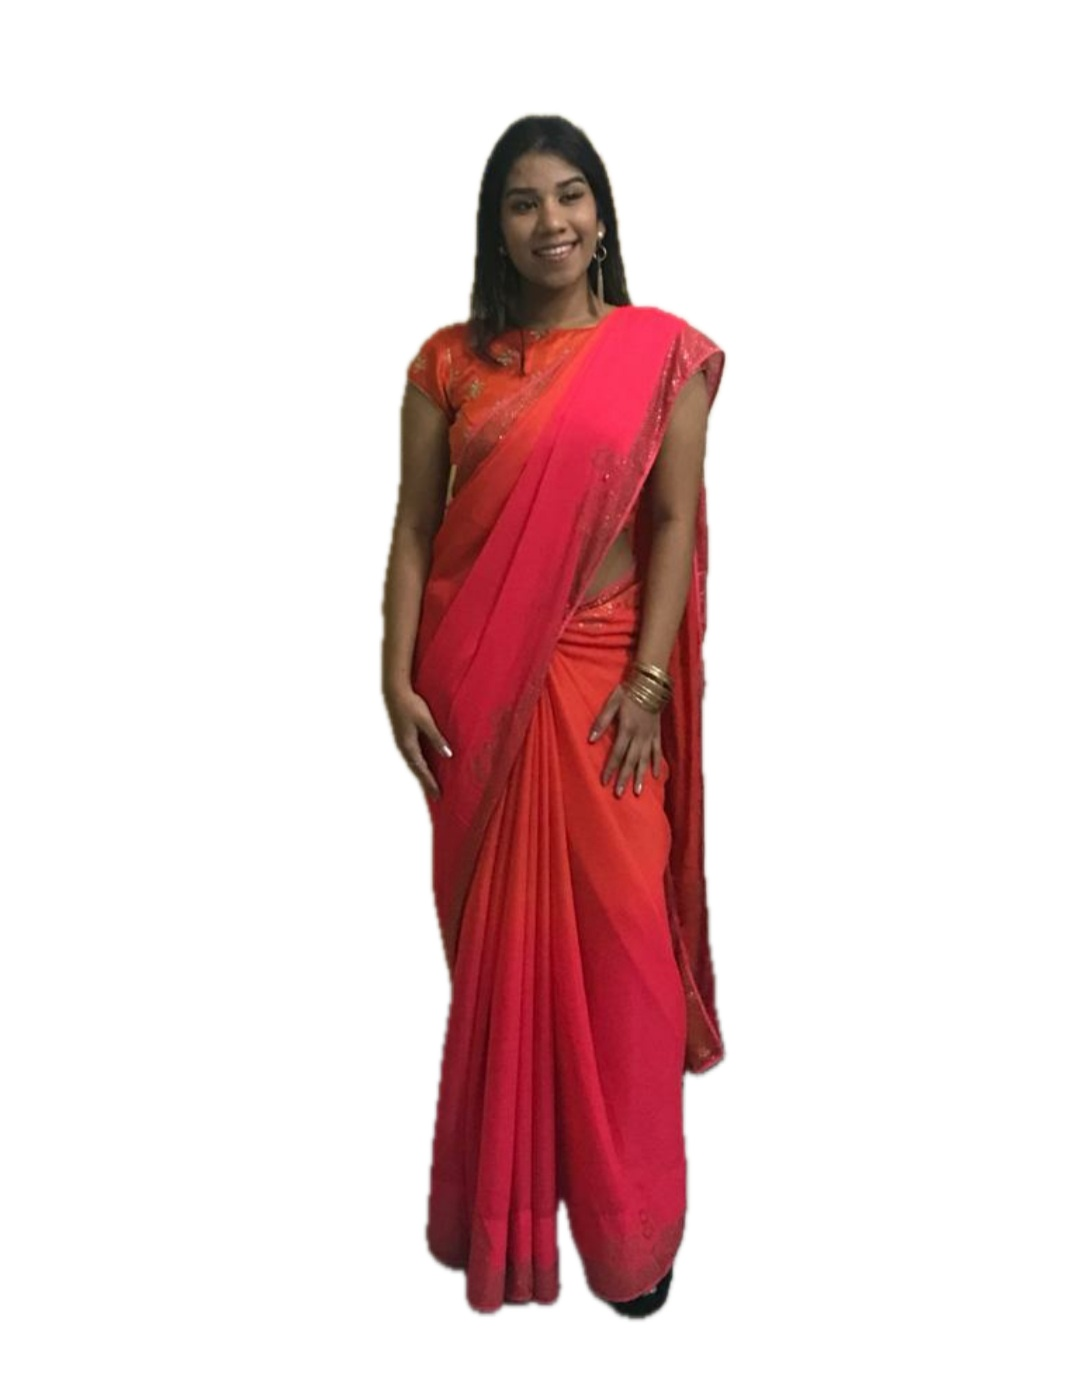
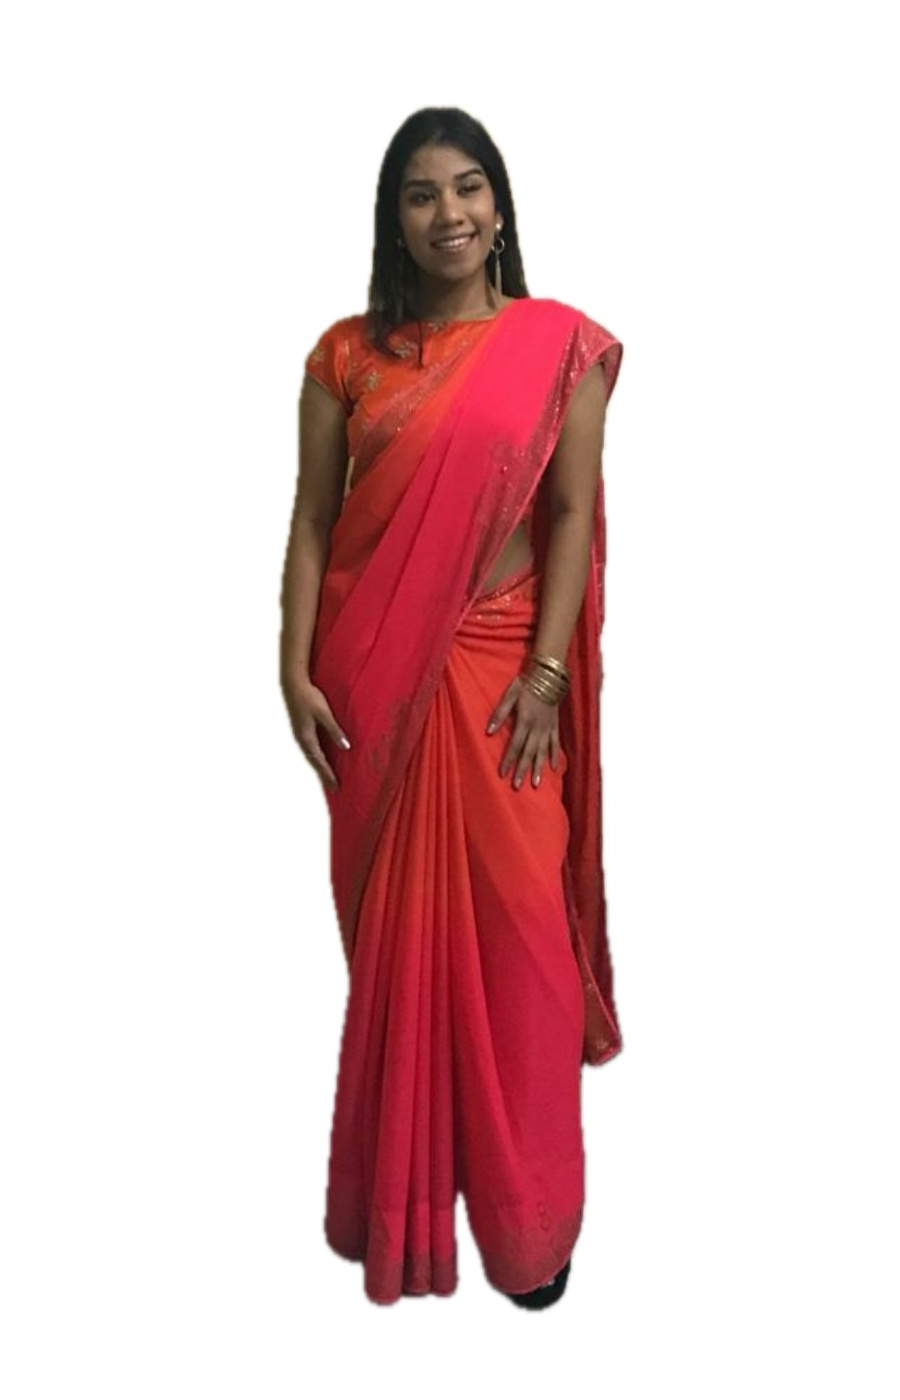
Fix cover orientation

Changed region(s): [[0.3111, 0.0624, 0.7156, 0.9673]]

diff --git a/src/App.css b/src/App.css
@@ -74,3 +74,41 @@ img {
   width: 240px;
   height: 560px;
 }
+
+.cover-card-large {
+  width: 280px;
+  height: 620px;
+}
+
+.cover-card-2026 {
+  width: 300px;
+  height: 660px;
+}
+
+.home-row {
+  align-items: flex-end;
+}
+
+.cover-card {
+  display: flex;
+  align-items: flex-end;
+  justify-content: center;
+}
+
+.cover-card img {
+  align-self: flex-end;
+}
+
+.cover-card,
+.cover-card-2026,
+.cover-card-large {
+  width: 240px !important;
+  height: 373px !important;
+}
+
+.cover-card img {
+  width: 100%;
+  height: 100%;
+  object-fit: cover;
+  object-position: center;
+}

diff --git a/src/App.jsx b/src/App.jsx
@@ -84,7 +84,7 @@ export default function App() {
             <motion.button
               key={item.year}
               onClick={() => openYear(item)}
-              className={`cover-card ${item.year === "2020" || item.year === "2026" ? "cover-card-large" : ""}`}
+              className={`cover-card ${item.year === "2026" ? "cover-card-2026" : ""}`}
               initial={{ opacity: 0, y: 18 }}
               animate={{ opacity: 1, y: 0 }}
               transition={{ delay: index * 0.07, duration: 0.45 }}
